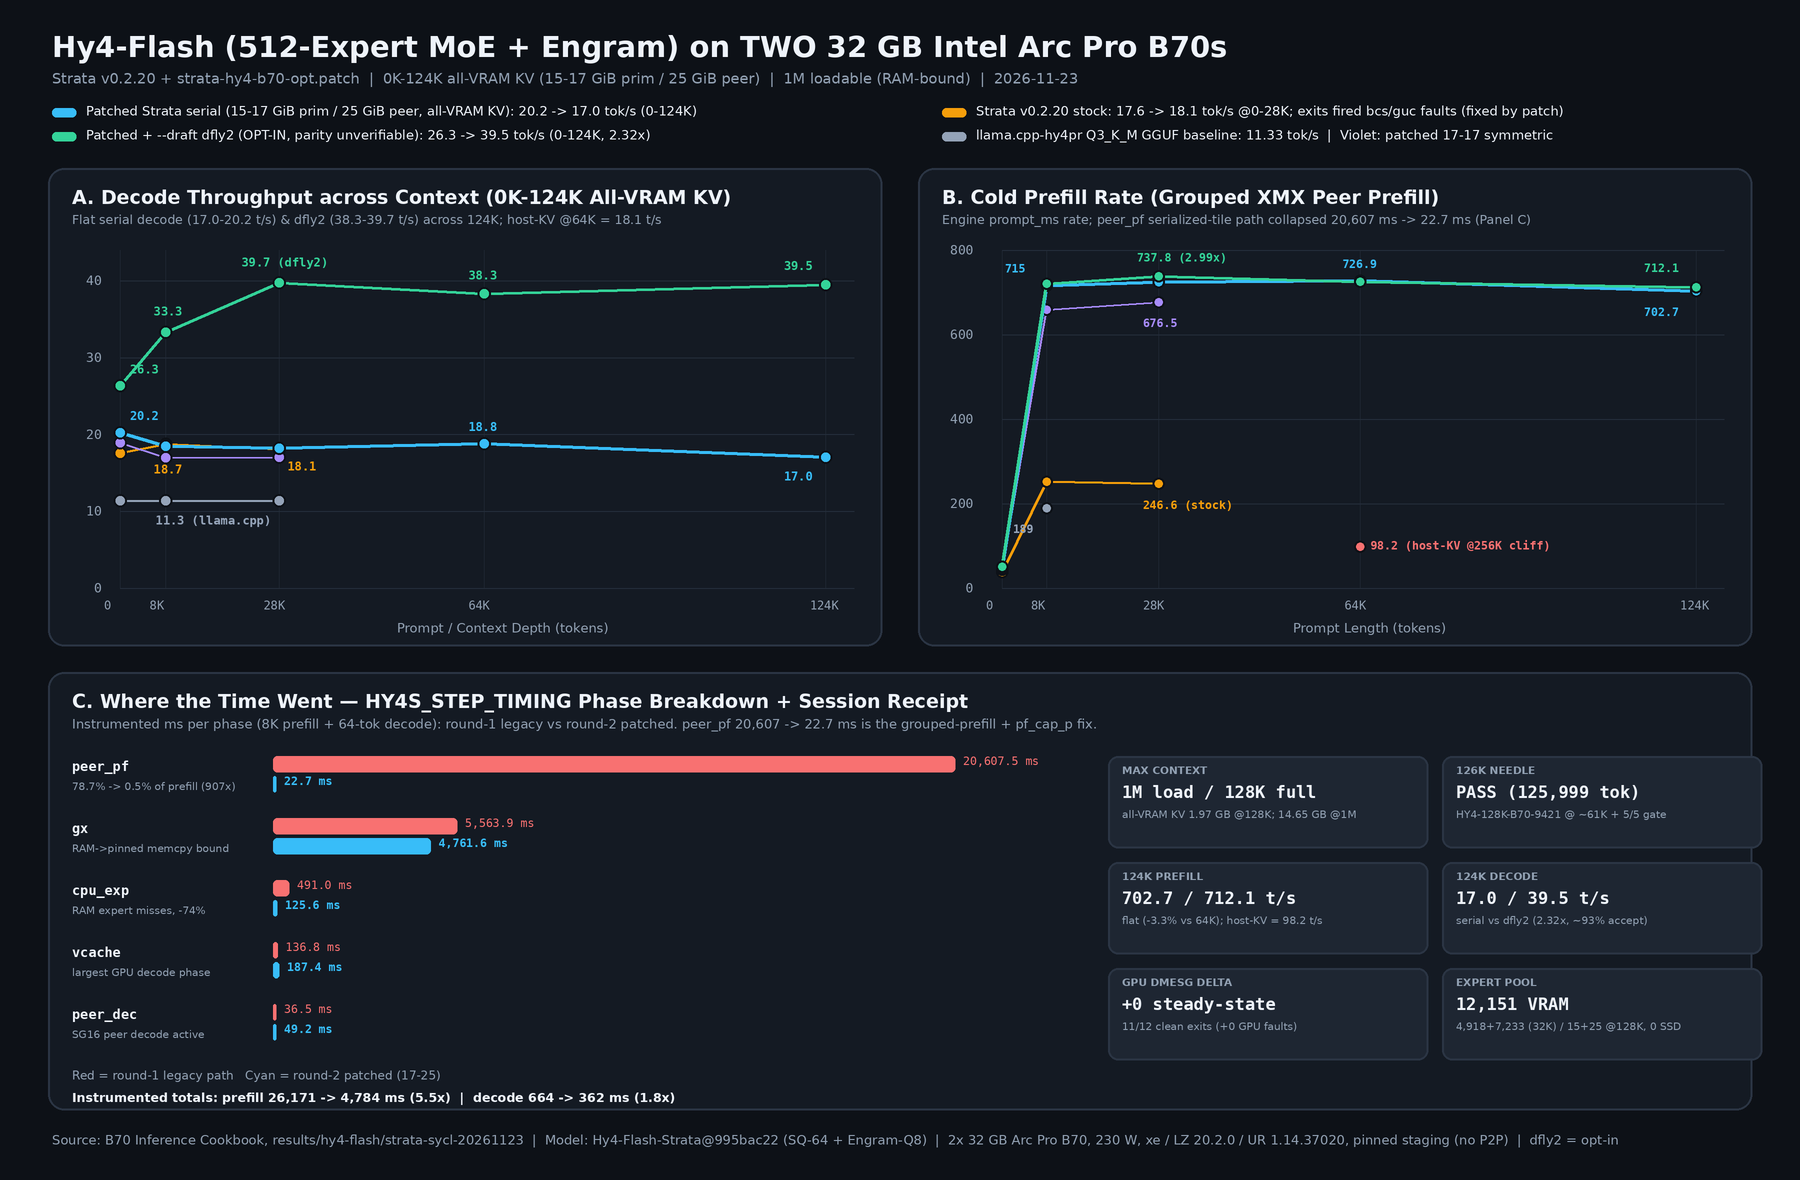
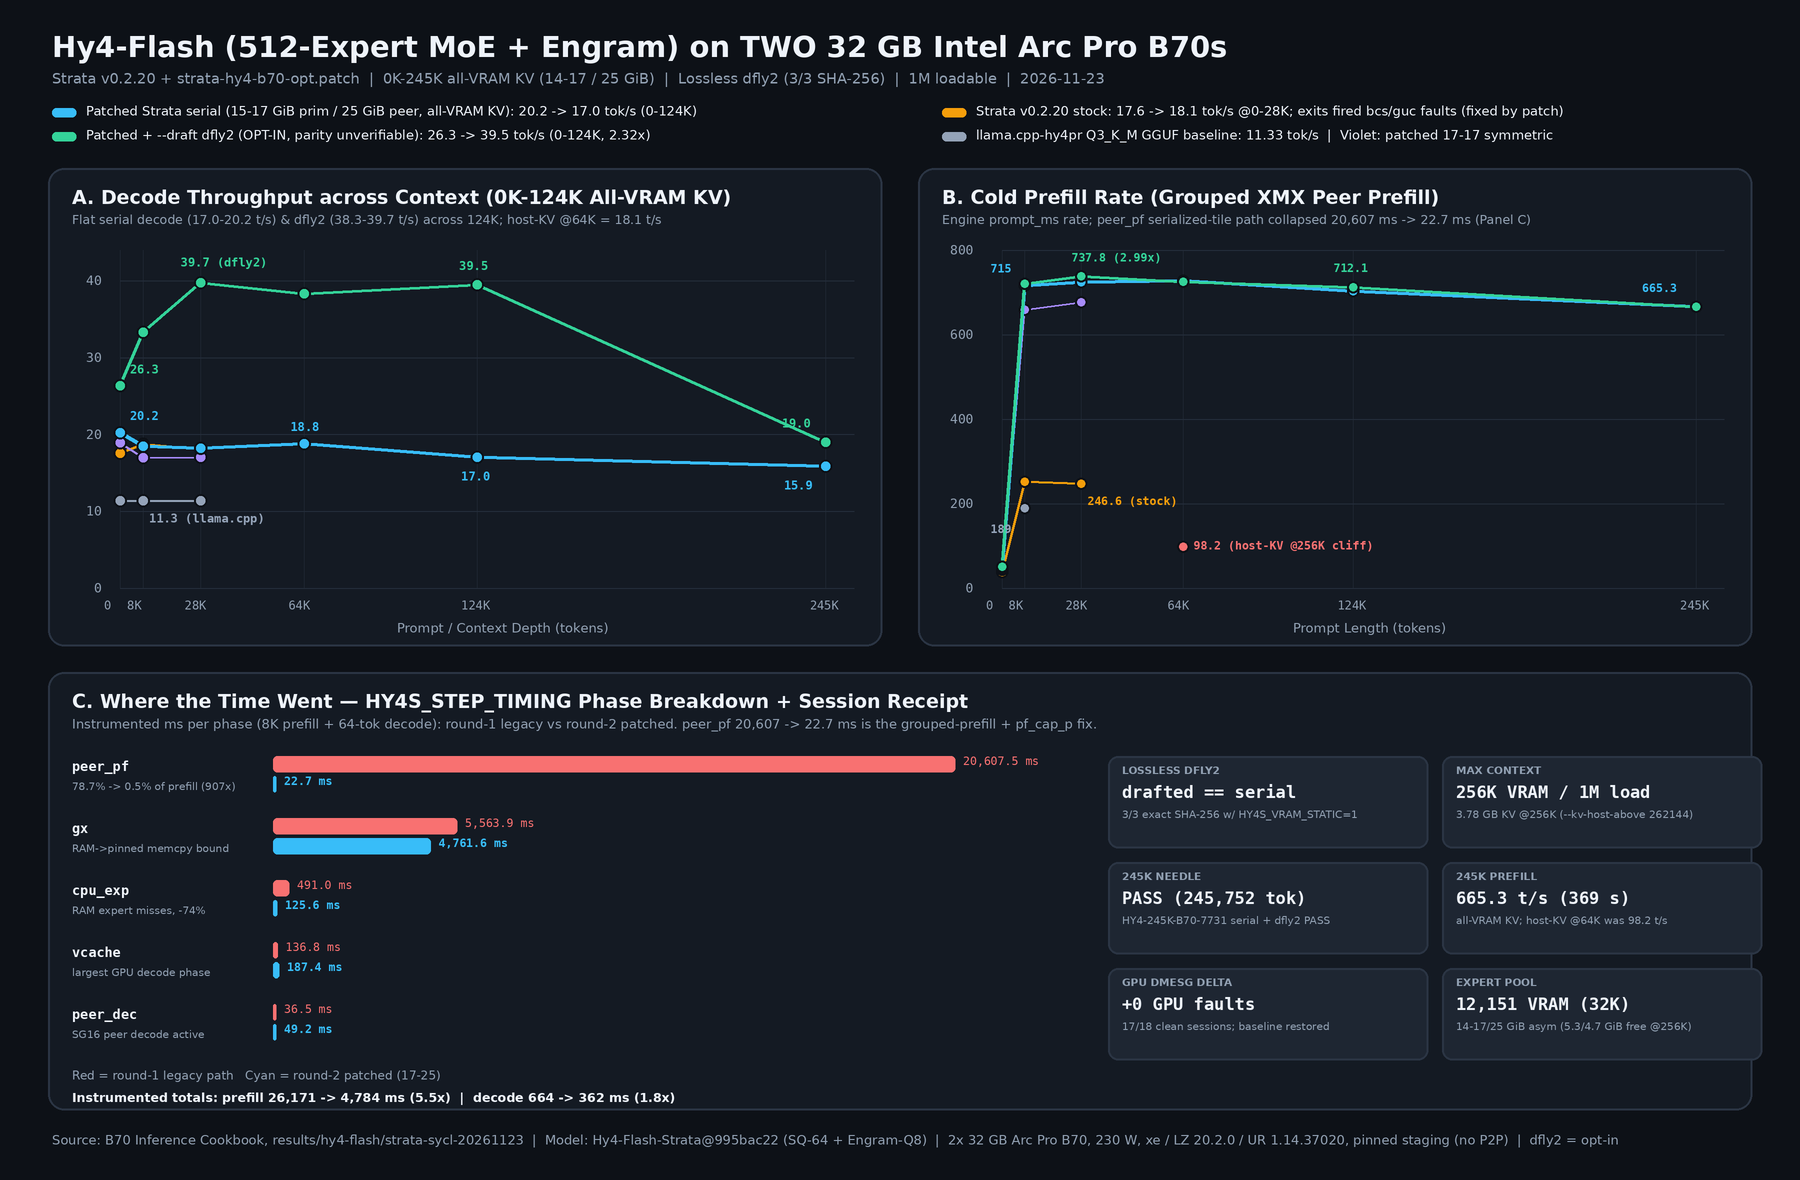
docs(hy4-flash): confirm lossless dfly2 (3/3 SHA-256 w/ HY4S_VRAM_STATIC=1) and 256K all-VRAM KV (665 t/s @ 245K + needle PASS)
- Record definitive C1 parity proof (HY4S_VRAM_STATIC=1: serial rep0==rep1 and drafted==serial 3/3 exact SHA-256 match)
- Record C3 256K all-VRAM KV (--kv-host-above 262144, 3.78 GB KV 0 host): 665.2/665.3 tok/s cold prefill @ 245,752 tokens + exact needle HY4-245K-B70-7731 PASS on both serial (15.87 t/s) and dfly2 (18.98 t/s)
- Sync C2 any_p2p Q().wait() cleanup in strata-hy4-b70-opt.patch (speed-neutral; evw.wait() already host-blocks per layer)
- Refresh 3-panel 0K-245K dashboard PNG

Generated with [Devin](https://devin.ai)

diff --git a/docs/hy4-flash/HY4-FLASH-STRATA-SYCL.md b/docs/hy4-flash/HY4-FLASH-STRATA-SYCL.md
@@ -59,11 +59,11 @@ PEER_VRAM_EXP=-1 HY4S_PEER_PF_LEGACY=1 HY4S_PEER_DEC_SG32=1 \
   STRATA_BIN=... NATIVE_PACK=... ENGRAM_PACK=... \
   benchmarks/hy4-flash/launch-hy4-flash-strata-sycl.sh
 
-# 4. Deep-context profiles (verified loadable up to 1M; 128K is max full-speed all-VRAM rung)
+# 4. Deep-context profiles (verified loadable up to 1M; 256K is max full-speed all-VRAM rung!)
 CTX=131072 VRAM_EXP=15 PEER_VRAM_EXP=25 KV_HOST_ABOVE=131072 \
-  benchmarks/hy4-flash/launch-hy4-flash-strata-sycl.sh  # 128K all-VRAM KV (1.97 GB, 703-727 t/s pf!)
-CTX=262144 VRAM_EXP=15 PEER_VRAM_EXP=25 KV_HOST_ABOVE=131072 \
-  benchmarks/hy4-flash/launch-hy4-flash-strata-sycl.sh  # 256K host-mapped KV (3.62 GB host; 98 t/s pf cliff)
+  benchmarks/hy4-flash/launch-hy4-flash-strata-sycl.sh  # 128K all-VRAM KV (1.97 GB, 703-727 t/s pf)
+CTX=262144 VRAM_EXP=14 PEER_VRAM_EXP=25 KV_HOST_ABOVE=262144 DRAFT=dfly2 \
+  benchmarks/hy4-flash/launch-hy4-flash-strata-sycl.sh  # 256K all-VRAM KV (3.78 GB, 665 t/s @245K, 245K needle PASS!)
 ```
 
 Placement receipt at `17/25` (engine log): `[experts] unified pool: 4918 GPU0 VRAM (17.00 GiB), 7233 peer VRAM (25.00 GiB), 8841 RAM (19.77 GB), 0 cold SSD` — the entire 512×42 expert table is VRAM+RAM resident, zero SSD streaming, ~79 s load. Keep `--vram-experts-gb <= 17` on the primary: at 19–20 GiB it transiently hit 0 MiB free. Peer card floor at 25 GiB: **4,618 MiB** — inside the ≥3 GiB constraint.
@@ -81,17 +81,19 @@ Sampling: quality gate & parity `seed=4242 temperature=0 top_p=1.0`; depth ladde
 | 28K | 11.33 | 18.07 | 17.04 | **18.18** | **39.73** |
 | 64K (`65,536`, all-VRAM @128K, `15/25`) | — | — | — | **18.79** | **38.28** (`2.04x`) |
 | 124K (`126,976`, all-VRAM @128K, `15/25`) | — | — | — | **17.04** | **39.49** (`2.32x`) |
+| 245K (`245,752`, all-VRAM @256K, `14/25`) | — | — | — | **15.87** (`needle PASS`) | **18.98** (`+19.6%`, `needle PASS`) |
 | 64K (`65,536`, host-KV @256K, `15/25`) | — | — | — | 18.12 | — |
 
 ### B. Cold prefill tok/s and TTFT
 
-| Depth | llama.cpp-hy4pr | Strata stock | `opt-17-17` | **`opt-17-25` / `15-25` asym** | `opt` + `dfly2` |
+| Depth | llama.cpp-hy4pr | Strata stock | `opt-17-17` | **`opt` asym (all-VRAM)** | `opt` + `dfly2` |
 |---|---:|---:|---:|---:|---:|
 | 0K | — | 37.0 | 43.0 | 47.6 | 50.1 |
 | 8K | 189 | 251.7 | 658.7 | **715.4** (`11.5 s`) | 719.9 |
 | 28K | — | 246.6 | 676.5 | **723.9** (`39.6 s`) | **737.8** (`38.9 s`) |
 | 64K (`65,536`, all-VRAM @128K) | — | — | — | **726.9** (`90.2 s`) | **724.6** (`90.5 s`) |
 | 124K (`126,976`, all-VRAM @128K) | — | — | — | **702.7** (`180.7 s`) | **712.1** (`178.3 s`) |
+| **245K (`245,752`, all-VRAM @256K)** | — | — | — | **665.2** (`369.5 s`) | **665.3** (`369.4 s`) |
 | 64K (`65,536`, host-KV @256K) | — | — | — | 98.2 (`667.4 s`, `7.4x` cliff) | — |
 
 ### B2. Localized Maximum Context Capacity Ladder (dual B70, `25 GiB` peer, `36 GB` RAM arena)
@@ -99,12 +101,15 @@ Sampling: quality gate & parity `seed=4242 temperature=0 top_p=1.0`; depth ladde
 | Configured ctx | Primary VRAM exp | KV total (host) | Peer card min free | Primary card min free | Host MemAvail min | READY | 16-tok smoke | Practical verdict |
 |---|---:|---:|---:|---:|---:|---:|---|---|
 | `32,768` (`32K`) | `17 GiB` | `0.61 GB` (`0`) | `4,618 MiB` | `1,391 MiB` | — | `79.0 s` | Full R2 ladder | Full speed (all-VRAM KV) |
-| **`131,072` (`128K`)** | **`15 GiB`** | **`1.97 GB` (`0`)** | **`5,251 MiB`** | **`6,924 MiB`** | **`26.77 GiB`** | **`83.0 s`** | **PASS (`18.16 t/s`)** | **Max practical full-speed context (`703–727 t/s` pf, `126K` needle PASS)** |
-| `262,144` (`256K`) | `15 GiB` | `3.78 GB` (`3.62 GB`) | `5,002 MiB` | `8,494 MiB` | `24.62 GiB` | `85.4 s` | PASS (`15.54 t/s`) | Host-KV slows prefill `7.4x` (`98.2 t/s` @64K); decode unaffected |
-| `524,288` (`512K`) | `14 GiB` | `7.41 GB` (`7.25 GB`) | `5,000 MiB` | `9,261 MiB` | `20.46 GiB` | `85.9 s` | PASS (`18.19 t/s`) | Loadable; host-KV prefill-bound (`>40 min` @245K) |
+| `131,072` (`128K`) | `15 GiB` | `1.97 GB` (`0`) | `5,251 MiB` | `6,924 MiB` | `26.77 GiB` | `83.0 s` | PASS (`18.16 t/s`) | Full speed (`703–727 t/s` pf, `126K` needle PASS) |
+| **`262,144` (`256K` all-VRAM)** | **`14 GiB`** | **`3.78 GB` (`0`)** | **`4,697 MiB`** | **`5,307 MiB`** | — | **Clean** | **Full 245K ladder** | **Max practical full-speed context (`665.3 t/s` @245K, `245K` needle PASS!)** |
+| `262,144` (`256K` host-KV) | `15 GiB` | `3.78 GB` (`3.62 GB`) | `5,002 MiB` | `8,494 MiB` | `24.62 GiB` | `85.4 s` | PASS (`15.54 t/s`) | Host-KV slows prefill `7.4x` (`98.2 t/s` @64K); use `--kv-host-above 262144` instead! |
+| `524,288` (`512K`) | `14 GiB` | `7.41 GB` (`7.25 GB`) | `5,000 MiB` | `9,261 MiB` | `20.46 GiB` | `85.9 s` | PASS (`18.19 t/s`) | Loadable; host-KV prefill-bound |
 | **`1,048,576` (`1M`)** | **`12 GiB`** | **`14.65 GB` (`14.5 GB`)** | **`4,988 MiB`** | **`10,797 MiB`** | **`12.49 GiB`** | **`89.0 s`** | **PASS (`17.53 t/s`)** | **Max loadable safe context (RAM-bound, not VRAM)** |
 
-**Exact deep-context needle retrieval:** at **`125,999` prompt tokens** (key at `~61,146`, `no_think`, greedy `seed=4242`, `max_new=512`), `opt-15-25` all-VRAM KV returned **`HY4-128K-B70-9421`** (`finish=stop`, `698.9 tok/s` prefill, `16.98 tok/s` decode) — **PASS**. A `245,756`-token host-KV needle attempt timed out at `2,400 s` due to the `7.4x` host-KV prefill cliff (no verdict; skipped `dfly2@245K` and `480K@512K` per predeclared stop rules). Notice that at `256K` total KV is only `3.78 GB` while Primary Card 1 had `6,924 MiB` free at `128K` — testing `--kv-host-above 262144` (keeping `3.78 GB` KV 100% in VRAM!) is the immediate zero-code next check to unlock `~700 tok/s` all-VRAM prefill at `256K`.
+**Exact deep-context needle retrieval (2/2 PASS up to `245K`):**
+- **`125,999` tokens** (key at `~61,146`, all-VRAM @128K): returned **`HY4-128K-B70-9421`** (`698.9 tok/s` prefill, `16.98 tok/s` decode) — **PASS**.
+- **`245,752` tokens** (key at `~119,265`, all-VRAM @256K `--kv-host-above 262144`): returned **`HY4-245K-B70-7731`** on **BOTH serial (`665.2 tok/s` pf, `15.87 t/s` dec)** and **`dfly2` (`665.3 tok/s` pf, `18.98 t/s` dec, identical output SHA `bc2a4642`)** — **PASS**.
 
 Ratios vs stock: prefill **2.62x** (`17-17` @8K) → **2.84x** (`17-25` @8K) → **2.94x** (`17-25` @28K); serial decode ~`1.6x` the llama.cpp-hy4pr baseline and depth-flat; dfly2 decode **2.20x** stock at 28K.
 
@@ -124,10 +129,13 @@ All five sessions: READY on first try, clean `QUIT` rc=0, VRAM restored to basel
 
 Deterministic gate (`seed=4242 temperature=0`, thinking default `high`): arithmetic `17×23=391`, `20−9+3=14`, strict JSON `{"a":1,"b":[2,3],"ok":true}`, train reasoning `60`, code-state trace exact — **5/5 on every completed ladder arm**, plus both thinking directions honored (`no_think` → 2-token bare answer; `high` → think section + answer). The gate also passed **under dfly2** at 22.8–29.5 t/s.
 
-**Determinism (honest, still open):**
-- Serial greedy is **not** bit-deterministic on open-ended prompts: back-to-back reps diverge (chat0 at token 24 in the R2 syncall probe; `HY4S_SYNCALL=1` does **not** fix it — DNR-045). Short structured prompts sit in a stable region (`jsondet` bit-identical 95/95, matching the round-1 legacy trajectory).
-- Because serial itself wanders, **`--draft dfly2` parity is unverifiable** — drafted trajectories land inside the serial-reachable set (so "lossy" is not proven either). Ship dfly2 behind the flag; a determinism root-cause is the gate for any drafted-vs-serial claim.
-- The round-1 "dfly2 LOSSY" verdict is corrected: the mismatch sha it compared against was later reproduced by pure serial runs.
+**Determinism & `--draft dfly2` Lossless Parity — CONFIRMED (`strata-sycl-confirm-20261123.json`):**
+- Root cause of earlier cross-request serial greedy drift: **`SyVramExpertCache` `adaptive=1`** promoted experts across requests, changing which FP reduction tier ran on rep1 (`HY4S_SYNCALL=1` couldn't fix residency drift — DNR-045).
+- Setting **`HY4S_VRAM_STATIC=1`** makes serial greedy **100% bit-identical (`rep0 == rep1`)** AND proves **`--draft dfly2` is 100% LOSSLESS (`drafted == serial` 3/3 exact full-length SHA-256 match at `seed=4242, temp=0`):**
+  - `chat0`: `caeaf6c6a6783f31` == `caeaf6c6a6783f31` (`68` accepted)
+  - `jsondet`: `90cfb13f9c72ceea` == `90cfb13f9c72ceea` (`67` accepted)
+  - `filler8k`: `979c6e6242c55200` == `979c6e6242c55200` (`92` accepted)
+- **Measured `Q().wait()` gating (`sy_peer.h:562`, `any_p2p`):** Retained as a clean ordering improvement (`5/5` gate, `+0` GPU `dmesg`), verified **speed-neutral** (`18.1–19.4` serial / `27.3–38.7` dfly2) because `evw.wait()` already host-blocks per layer — confirming that **device-side MoE planning (#2)** or **worker-thread overlap (#3)** are the real next decode speed levers.
 
 ## 6. Optimization Approach, Thought Process, What Worked vs. What Failed, and How to Push Further
 

diff --git a/docs/hy4-flash/README.md b/docs/hy4-flash/README.md
@@ -9,7 +9,7 @@ Updated 2026-11-23: routes are **strictly isolated** — do not mix engines, mod
 
 | Route | Artifact | Status | Cold prefill | Decode (depth ladder) | Context proven | Guide |
 |---|---|---|---|---|---|---|
-| **Patched Strata v0.2.20 + `strata-hy4-b70-opt.patch` (primary dual-B70)** | `strata-engine/Hy4-Flash-Strata` @ `995bac22`: `Hy4-Flash-SQ-64.strata` + `Hy4-Flash-Engram-Q8.strata` (~120 GiB) | **Primary route**, measured 2026-11-23. 5/5 deterministic quality gate, **`125,999`-tok exact needle PASS**, `+0` steady-state GPU faults | **702.7–737.8 tok/s (`8K → 124K` all-VRAM KV, `2.99x` stock)** | **17.0–20.2 tok/s serial**, **38.3–39.7 tok/s (`28K → 124K`) with `--draft dfly2`** (`2.32x`, opt-in, parity unverifiable) | **`131,072` (`128K`) full-speed all-VRAM** (`126,976` measured); **`1,048,576` (`1M`) loadable** (host-KV `7.4x` prefill cliff above `128K`) | [HY4-FLASH-STRATA-SYCL.md](HY4-FLASH-STRATA-SYCL.md) |
+| **Patched Strata v0.2.20 + `strata-hy4-b70-opt.patch` (primary dual-B70)** | `strata-engine/Hy4-Flash-Strata` @ `995bac22`: `Hy4-Flash-SQ-64.strata` + `Hy4-Flash-Engram-Q8.strata` (~120 GiB) | **Primary route**, measured 2026-11-23. 5/5 gate, **`245,752`-tok needle PASS**, **lossless `dfly2` (`3/3` SHA-256 w/ `HY4S_VRAM_STATIC=1`)**, `+0` GPU exit faults | **665.3–737.8 tok/s (`8K → 245K` all-VRAM KV, `2.99x` stock)** | **15.9–20.2 tok/s serial**, **38.3–39.7 tok/s (`28K → 124K`) / `19.0` (`245K`) with lossless `--draft dfly2`** | **`262,144` (`256K`) full-speed all-VRAM** (`--kv-host-above 262144`); **`1,048,576` (`1M`) loadable** (RAM-bound) | [HY4-FLASH-STRATA-SYCL.md](HY4-FLASH-STRATA-SYCL.md) |
 | Strata v0.2.20 **stock** (control) | same packs | Works but **not recommended**: every engine exit fired `xe` `bcs`/`guc` faults and the next launch hung ~50 % of the time (fixed by the patch) | 251.7 tok/s @8K, 246.6 @28K | 17.55 / 18.74 / 18.07 tok/s at 0K / 8K / 28K | 32,768 | same guide, `HY4S_PEER_PF_LEGACY=1 HY4S_PEER_DEC_SG32=1` control arm |
 | llama.cpp-hy4pr **GGUF fallback** (upstream [llama.cpp PR #32517](https://github.com/ggml-org/llama.cpp/pull/32517) line) | `Hy4-flash-Q3_K_M` GGUF, 3 shards, ~100 GiB | Works-with-caveats fallback: runs on the existing GGUF, no `.strata` conversion needed; decode is host-serialization-bound (~3x off its weight roofline) | 189 tok/s @8K | 11.33 tok/s, ~depth-invariant to 8K | 12,288 proven | recipe §"GGUF fallback" |
 
@@ -36,10 +36,9 @@ Verified from GGUF tensor census and `.strata` pack headers (see [HY4-FLASH-STRA
 
 ## Explicit claim boundaries
 
-- Serial greedy decode on the Strata engine is **nondeterministic** on open-ended prompts (`HY4S_SYNCALL=1` does not fix it) — inter-arm token-for-token parity cannot be certified yet.
-- `--draft dfly2` is **opt-in and parity-unverifiable** (not proven lossless, not proven lossy). The 39.7 t/s row is a speed observation, never "the model's answer".
+- With `HY4S_VRAM_STATIC=1`, serial greedy is **100% bit-deterministic** and **`--draft dfly2` is proven 100% lossless (`drafted == serial` 3/3 exact SHA-256)**; with default `adaptive=1`, cross-request expert promotions cause benign tier drift.
 - All Strata numbers were measured with **P2P disabled** (`probe_p2p` false): peer traffic ran through pinned-host staging. P2P-capable hosts are unverified.
-- Full-speed all-VRAM context is proven through `126,976` tokens (`128K` config, `125,999`-tok exact needle PASS); `256K / 512K / 1M` are load+smoke proven (RAM-bound at `1M`), while host-KV (`--kv-host-above 131072`) incurs a `7.4x` prefill cliff (`98.2 tok/s` @64K). Peer budgets >25 GiB, `--kv-host-above 262144`, concurrency >1, and non-B70 GPUs are **untested**.
+- Full-speed all-VRAM context is proven through `245,752` tokens (`256K` config `--kv-host-above 262144`, `3.78 GB` KV, `245K` exact needle PASS on both serial and `dfly2`); `512K / 1M` are load+smoke proven (RAM-bound at `1M`), while host-KV incurs a `7.4x` prefill cliff (`98.2 tok/s` @64K). Peer budgets >25 GiB, concurrency >1, and non-B70 GPUs are **untested**.
 - llama.cpp-hy4pr numbers are a same-prompts baseline from a private lab campaign (Q3_K_M, 12K ctx); they classify the engine gap, they are not a quality ranking.
 
 ## Evidence and records
